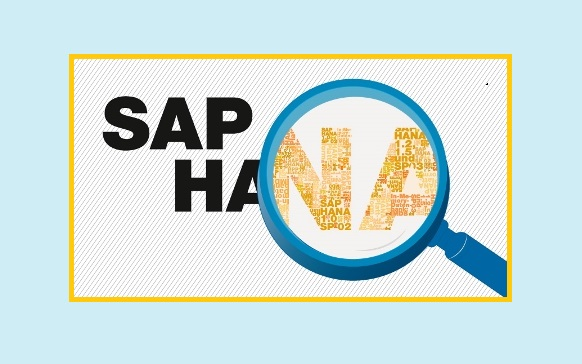
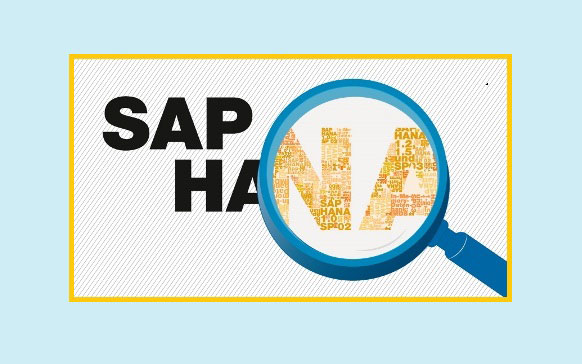
Improved images
KKR full portfolio images

Changed region(s): [[0.1237, 0.1209, 0.8969, 0.8462]]

diff --git a/index.html b/index.html
@@ -82,10 +82,15 @@
 		<!-- Feature 1 -->
 			<article id="first" class="container box style1 right">
 				<div class="gallery">
-					<a href="images/proj12.png" class="image fit">
-						<img src="images/proj12.png" alt="SAP Game Analytics" title="SAP Game Analytics & SAP Auction Analytics for Kolkata Knight Riders"/>
+					<a href="images/proj1.jpg" class="image fit noShow"/>
+						<img title="SAP Game Analytics for Kolkata Knight Riders"/>
+					<a href="images/proj111.jpg" class="image fit noShow" />
+						<img title="SAP Game Visualizations for Kolkata Knight Riders"/>
+					<a href="images/proj11.jpg" class="image fit"/>	
+					<img src="images/proj12.jpg" title="SAP Auction Analytics for Kolkata Knight Riders"/>
 					</a>
 				</div>
+				
 				<div class="inner">
 					<header>
 						<h2>SAP Sports Analytics for Kolkata Knight Riders (KKR) </h2>
@@ -194,13 +199,13 @@
 				<article class="container box style2">
 					<div class="inner gallery">
 						<div class="row flush">
-							<div class="3u"><a href="images/proj7.png" class="image fit"><img src="images/proj7.png" alt="SAP Third Eye" 
+							<div class="3u"><a href="images/proj7.jpg" class="image fit"><img src="images/proj7.jpg" alt="SAP Third Eye" 
 							title="I single-handedly developed SAP Third Eye - a geo-location based Augmented Reality (AR) Android platform in just under 4 months as an interns at SAP Labs. 
 							It can be used as a standalone platform or can be connected to existing SAP back-end services to render nearby locations as augmented pins on the screen." />
 								<span class="imageTitleMobile">SAP Third Eye - Augmented Reality Platform</span></a>
 							</div>
 							
-							<div class="3u"><a href="images/proj10.png" class="image fit"><img src="images/proj10.png" alt="WebEngage Email Reader" 
+							<div class="3u"><a href="images/proj10.jpg" class="image fit"><img src="images/proj10.jpg" alt="WebEngage Email Reader" 
 							title="Working as a freelance developer, I resolved the infinite e-mail loop issue caused due to auto-email responders by fixing the IMAP Server bug. 
 							I also modified existing code to prevent hard wiring of certain RegEx definitions." />
 								<span class="imageTitleMobile">

diff --git a/css/style.css b/css/style.css
@@ -11,6 +11,10 @@
 /*********************************************************************************/
 /* Basic                                                                         */
 /*********************************************************************************/
+	.noShow{
+	display:none!important;
+	}
+	
 	::selection {
 	  background: #56E3FF;; /* WebKit/Blink Browsers */
 	}
